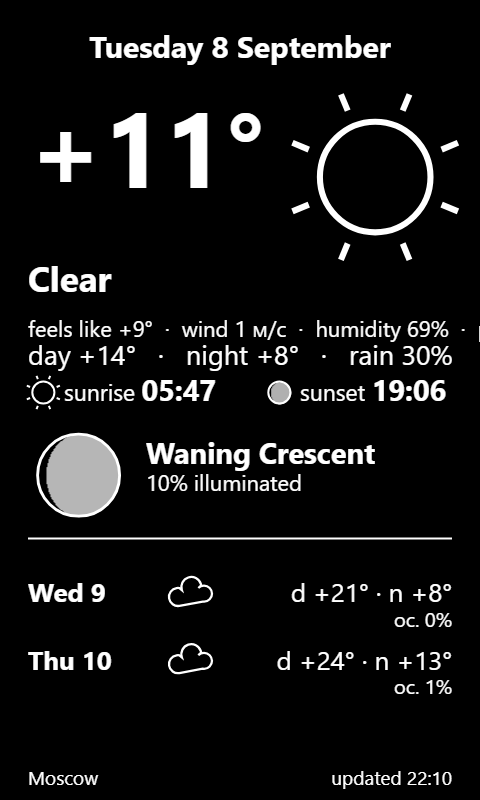
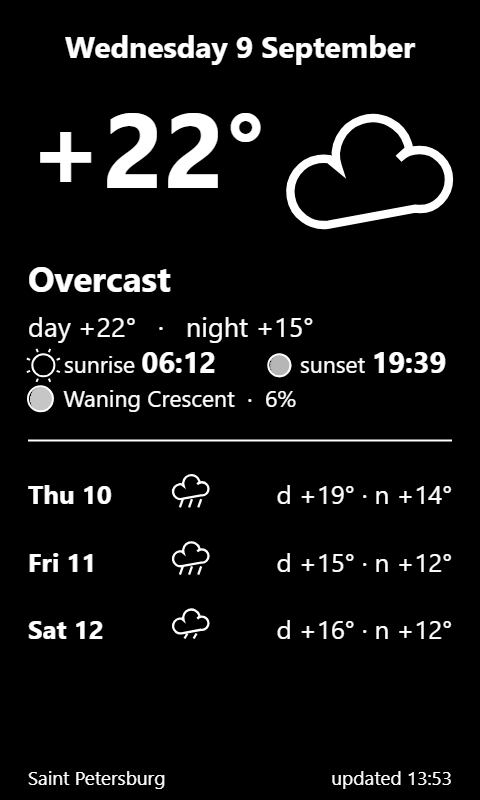
cleanup: drop dead CSS/i18n leftovers, restore progress bar styles; fix [0] weather error and loadWeather race; install: reachability probe + relay ERR surfaced; serve.py: origin guard for /relay and /save; fresh RU/EN screenshots; dev guide synced

diff --git a/index.html b/index.html
@@ -10,7 +10,7 @@
   :root {
     --bg:#f5f3ef; --panel:#ffffff; --line:#e3dfd7; --fg:#22211e; --dim:#8a857c; --acc:#2f6f3e;
     --btnText:#ffffff; --inputBg:#fbfaf8; --codeBg:#f0ede6; --warnBg:#fdf3d8; --warnBorder:#ecd9a0; --warnText:#7a5200;
-    --badgeBg:#181b20;
+    --badgeBg:#181b20; --acc2:#7cc98b;
   }
   @media (prefers-color-scheme: dark) {
     :root {
@@ -25,22 +25,10 @@
   .navIn { max-width:1080px; margin:0 auto; text-align:center; }
   .brand { display:inline-block; color:#fff; text-decoration:none; font-size:22px; font-weight:800; letter-spacing:.5px; }
   .brand span { color:var(--acc2); }
-  nav.menu { margin-top:10px; display:flex; justify-content:center; align-items:center; gap:6px 18px; flex-wrap:wrap; }
-  nav.menu a { color:#cfd4da; text-decoration:none; font-size:14px; font-weight:600; padding:4px 2px; border-bottom:2px solid transparent; }
-  nav.menu a:hover { color:#fff; border-bottom-color:var(--acc2); }
   .navBadges { margin-top:10px; display:flex; justify-content:center; align-items:center; gap:8px; flex-wrap:wrap; }
   .navBadges .badge { background:#0d0f12; border:1px solid #2a2f36; }
   .navBadges .badge.lang.active { background:var(--acc); color:#12210f; border-color:var(--acc); }
-  .navBadges .badge.donate { color:var(--gold); border-color:#4a3f22; }
   .navBadges .badge .cnt { color:#f0c14b; letter-spacing:0; }
-  #about { max-width:760px; margin:0 auto; padding:40px 20px 10px; text-align:center; }
-  #about h2 { font-size:26px; margin:0 0 12px; }
-  #about p { color:var(--dim); font-size:15.5px; margin:0 0 10px; }
-  header.site { padding:14px 26px 12px; border-bottom:1px solid var(--line); background:var(--panel); }
-  .hdrRow { max-width:1180px; margin:0 auto; display:flex; align-items:center; gap:14px; flex-wrap:wrap; }
-  header.site h1 { margin:0; font-size:19px; font-weight:700; letter-spacing:.2px; }
-  header.site p { margin:6px 0 10px; color:var(--dim); font-size:13.5px; max-width:1180px; }
-  .hdrLinks { margin-left:auto; display:flex; align-items:center; gap:8px; flex-wrap:wrap; }
   .badge { display:inline-flex; align-items:center; gap:5px; background:var(--badgeBg); color:#fff; border:none; border-radius:4px; padding:7px 11px; font-size:11px; font-weight:700; letter-spacing:.8px; text-transform:uppercase; text-decoration:none; cursor:pointer; font-family:inherit; line-height:1; }
   .badge:hover { filter:brightness(1.3); }
   .badge.lang.active { background:var(--acc); color:var(--btnText); }
@@ -54,11 +42,6 @@
   .accItem:hover { background:#22262d; }
   .accItem small { color:var(--dim); display:block; font-size:11px; font-weight:400; }
   .badge.donate { color:#f0c14b; border:2px solid #4a3f22; }
-  .hh { font-size:1.15em; }
-  .home { color:var(--fg); text-decoration:none; font-weight:600; font-size:13.5px; background:var(--inputBg); border:1px solid var(--line); border-radius:8px; padding:7px 12px; }
-  .home:hover { background:var(--codeBg); }
-  .iconLink { display:inline-flex; align-items:center; justify-content:center; width:30px; height:25px; border-radius:4px; color:#ffffff; text-decoration:none; background:var(--badgeBg); }
-  .iconLink:hover { filter:brightness(1.3); }
   main { display:flex; gap:26px; padding:24px; align-items:flex-start; flex-wrap:wrap; max-width:1180px; margin:0 auto; }
   #controls { width:340px; background:var(--panel); border:1px solid var(--line); border-radius:12px; padding:20px; }
   .group { margin-bottom:20px; }
@@ -92,6 +75,10 @@
   .status:empty { display:none; }
   .status.ok { color:var(--acc); font-weight:600; }
   .status.err { color:#e07a5f; }
+  .bar { display:none; height:8px; margin:9px 0 7px; background:var(--inputBg); border:1px solid var(--line); border-radius:5px; overflow:hidden; }
+  .bar i { display:block; height:100%; width:0; background:var(--acc); transition:width .2s ease; }
+  .bar.ind i { width:30%; animation:xmsIndet 1.2s linear infinite; }
+  @keyframes xmsIndet { from { margin-left:-30%; } to { margin-left:100%; } }
   #cryptoModal { display:none; position:fixed; inset:0; background:rgba(0,0,0,.55); z-index:50; align-items:center; justify-content:center; }
   #cryptoModal.open { display:flex; }
   .cmBox { background:var(--panel); border:1px solid var(--line); border-radius:14px; padding:22px; width:min(560px, 92vw); position:relative; }
@@ -102,11 +89,6 @@
   .cmAddr { flex:1; font-family:Consolas, monospace; font-size:11.5px; background:var(--inputBg); border:1px solid var(--line); border-radius:6px; padding:6px 8px; word-break:break-all; min-width:200px; }
   .cmBtn { background:var(--inputBg); color:var(--fg); border:1px solid var(--line); border-radius:6px; padding:6px 10px; font-size:12px; font-weight:600; text-decoration:none; cursor:pointer; }
   #cmClose { position:absolute; top:8px; right:12px; background:none; border:none; font-size:24px; color:var(--dim); }
-  details { margin-top:12px; font-size:13px; color:var(--dim); }
-  details summary { cursor:pointer; color:var(--fg); font-weight:600; }
-  details ol, details ul { margin:8px 0 0; padding-left:20px; }
-  details li { margin-bottom:5px; }
-  code { background:var(--codeBg); padding:1px 5px; border-radius:4px; font-size:12px; }
   @media (max-width: 900px) {
     main { flex-direction: column; align-items: center; }
     #controls { width:100%; max-width:560px; }
@@ -269,17 +251,10 @@ ru: {
   refresh: "Обновить погоду",
   install: "Обновить и установить на ридер",
   download: "Скачать sleep.bmp",
-  reader: "Ридер",
   instBlock: "Быстрая установка",
   readerHint: "Введите IP-адрес, который отображается у вас в режиме передачи файлов на вашей читалке.",
   httpsNote: 'Эта страница загружается по протоколу HTTPS — браузер блокирует запросы от неё к ридеру в вашей домашней сети. Генератор и загрузка BMP работают полностью. Для установки в один клик <a href="index.html" download="xteink-meteo-sleep.html">скачайте этот файл</a> и откройте его на своём компьютере.',
-  ideaT: "💡 Идея проекта",
   ideaP: "Экран блокировки ридера — это e-ink: он не тратит батарею, просто показывая картинку. Пусть вместо бесполезной заставки там будет полезный инструмент: сводка погоды, закат, фаза Луны. Синхронизировался утром — и весь день (даже офлайн, на природе) перед глазами живая сводка, а не мёртвый пейзаж.",
-  roadT: "🛣 Roadmap",
-  rmDone: "✅ Уже работает",
-  rd: "Карточка погоды (сейчас, днём/ночью, прогноз 2–5 дней) · восход/закат · фаза Луны · 6 языков · светлая/тёмная тема · установка на ридер в 1 клик (локальная версия) · донаты",
-  rmNext: "🏗 В планах",
-  rn: "Вероятность осадков · ветер · ощущаемая температура · UV-индекс · качество воздуха · офлайн-режим (дневная температура как главная) · своя строка текста на карточке · автообновление через форк прошивки",
   rmTested: "⚠ Протестировано только на Xteink X4 + inkMOD 1.1.7. Другие устройства и прошивки не проверялись — отчёты приветствуются!",
   stSearching: "Ищем город…", stFound: "Найдено: {n}. Выбери из списка.", stNotFound: "Город не найден", stSearchErr: "Ошибка сети при поиске города",
   stLoading: "Грузим погоду для {city}…", stReady: "Готово: {w}×{h}. Можно скачивать BMP.",
@@ -287,18 +262,16 @@ ru: {
   stSendErr: "Ридер не отвечает. Проверь: он в режиме File Transfer, ноут в его сети, адрес верный.",
   stApplying: "Картинка загружена. Применяю режим «Своя картинка»…",
   stDone: "Готово: sleep.bmp на ридере, режим «Своя картинка» выставлен. Заблокируй ридер — увидишь карточку.",
-  stApplyFail: "Картинка загружена, но режим применить не удалось — выбери «Своя картинка» на ридере вручную.",
-  stHttps: "Страница по HTTPS — браузер не пустит запросы к ридеру в домашней сети. Скачай файл (жёлтая плашка выше) и открой его на компе.",
+
   stNoAddr: "Впишите адрес ридера — тот, что он показывает в режиме передачи файлов.",
   stNoWeather: "Сначала загрузи погоду — нажми «Обновить погоду».",
   noData: "Нет данных о погоде", dayLbl: "днём", nightLbl: "ночью", sunrise: "восход", sunset: "закат",
-  illum: "освещено {v}%", updated: "обновлено", dS: "д", nS: "н", donate: "Поддержать",
-  mGen: "Конструктор", mAbout: "О проекте", mInst: "Установка", bnPlace: "Куда класть файл — зависит от прошивки: в inkMOD это папка Sleep.", ideaNext: "В планах — сделать так, чтобы карточка оставалась полезной несколько дней без синхронизации.",
-  home: "На главную",
+  updated: "обновлено", dS: "д", nS: "н", donate: "Поддержать",
+  ideaNext: "В планах — сделать так, чтобы карточка оставалась полезной несколько дней без синхронизации.",
   footData: "Погода и геокодинг — <a href=\"https://open-meteo.com\" target=\"_blank\" rel=\"noopener\">Open-Meteo.com</a> · фаза Луны рассчитывается прямо в браузере · карточка живёт офлайн и обновляется с новой загрузкой sleep.bmp",
   madeFor: "сделал для сообщества, с любовью",
   disclaimer: "Проект не аффилирован с Xteink, inkMOD и CrossPoint. Погода — Open-Meteo (некоммерческое использование).", langRu: "Русский", langEn: "Английский",
-  bnFw: "Подходит к любой прошивке ридера — это обычный BMP-файл", navIdea2: "Идея", navRoad2: "Roadmap",
+  bnFw: "Подходит к любой прошивке ридера — это обычный BMP-файл",
   crypto: "Крипта",
   okBtn: "Понятно", cmTitle: "Поддержать криптой", copied: "Скопировано ✓",
   wmo: {0:"Ясно",1:"Преимущ. ясно",2:"Перем. облачность",3:"Пасмурно",45:"Туман",56:"Морось",61:"Небольшой дождь",63:"Дождь",65:"Сильный дождь",66:"Ледяной дождь",71:"Небольшой снег",73:"Снег",75:"Сильный снег",77:"Снежные зёрна",80:"Ливень",85:"Снегопад",95:"Гроза",96:"Гроза с градом"},
@@ -314,17 +287,10 @@ en: {
   refresh: "Refresh weather",
   install: "Update & install to reader",
   download: "Download sleep.bmp",
-  reader: "Reader",
   instBlock: "Quick install",
   readerHint: "Enter the IP address shown on your e-reader in File Transfer mode.",
   httpsNote: 'This page is served over HTTPS — the browser blocks its requests to the reader on your home network. The generator and BMP download work fully. For one-click install, <a href="index.html" download="xteink-meteo-sleep.html">download this file</a> and open it on your computer.',
-  ideaT: "💡 Project idea",
   ideaP: "An e-reader lock screen is e-ink: showing a picture costs zero battery. So instead of a useless wallpaper, let it be a useful tool: weather summary, sunset time, moon phase. Sync in the morning — and all day (even offline, out in nature) you have a live briefing instead of a dead landscape.",
-  roadT: "🛣 Roadmap",
-  rmDone: "✅ Already working",
-  rd: "Weather card (current, day/night, 2–5 day forecast) · sunrise/sunset · moon phase · 6 interface languages · light/dark theme · one-click install to reader (local version) · donations",
-  rmNext: "🏗 On the roadmap",
-  rn: "Precipitation probability · wind · feels-like temperature · UV index · air quality · offline mode (daily temp as the headline) · custom text line on the card · scheduled auto-refresh via a firmware fork",
   rmTested: "⚠ Tested only on Xteink X4 + inkMOD 1.1.7. Other devices and firmware are untested — field reports welcome!",
   stSearching: "Searching…", stFound: "{n} found — pick one", stNotFound: "City not found", stSearchErr: "Network error while searching",
   stLoading: "Loading weather for {city}…", stReady: "Done: {w}×{h}. You can download the BMP.",
@@ -332,20 +298,17 @@ en: {
   stSendErr: "Reader is not responding. Check: it\u2019s in File Transfer mode, laptop on the same network, address correct.",
   stApplying: "Image uploaded. Applying the custom sleep screen…",
   stDone: "Done: sleep.bmp is on the reader, sleep screen set to Custom. Lock the reader to see the card.",
-  stApplyFail: "Image uploaded, but couldn\u2019t set the mode — pick “Custom image” on the reader manually.",
-  stHttps: "Page is on HTTPS — the browser won\u2019t let it reach the reader on your network. Download the file (yellow note above) and open it locally.",
+
   stNoAddr: "Enter the reader address — the one it shows in File Transfer mode.",
   stNoWeather: "Load the weather first — press “Refresh weather”.",
   noData: "No weather data", dayLbl: "day", nightLbl: "night", sunrise: "sunrise", sunset: "sunset",
-  illum: "{v}% illuminated", updated: "updated", dS: "d", nS: "n", donate: "Donate",
-  mGen: "Generator", mAbout: "About", mInst: "Install", bnPlace: "Where to put the file depends on the firmware: on inkMOD it is the Sleep folder.", ideaNext: "Planned: make the card stay useful for several days without a sync.",
-  home: "Home",
+  updated: "updated", dS: "d", nS: "n", donate: "Donate",
+  ideaNext: "Planned: make the card stay useful for several days without a sync.",
   footData: "Weather & geocoding by <a href=\"https://open-meteo.com\" target=\"_blank\" rel=\"noopener\">Open-Meteo.com</a> · moon phase is computed right in your browser · the card lives offline and refreshes with every sleep.bmp upload",
   madeFor: "made for the community with",
   disclaimer: "Not affiliated with Xteink, inkMOD or CrossPoint. Weather data by Open-Meteo (non-commercial use).", langRu: "Russian", langEn: "English",
-  bnFw: "Works with any reader firmware — it is just a BMP file", navIdea2: "Idea", navRoad2: "Roadmap",
+  bnFw: "Works with any reader firmware — it is just a BMP file",
   crypto: "Crypto",
-  okBtn: "Đã hiểu",
   okBtn: "Got it", cmTitle: "Donate in crypto", copied: "Copied ✓",
   wmo: {0:"Clear",1:"Mainly clear",2:"Partly cloudy",3:"Overcast",45:"Fog",56:"Drizzle",61:"Light rain",63:"Rain",65:"Heavy rain",66:"Freezing rain",71:"Light snow",73:"Snow",75:"Heavy snow",77:"Snow grains",80:"Rain shower",85:"Snowfall",95:"Thunderstorm",96:"Thunderstorm with hail"},
   moon: ["New Moon","Waxing Crescent","First Quarter","Waxing Gibbous","Full Moon","Waning Gibbous","Last Quarter","Waning Crescent"]
@@ -716,7 +679,7 @@ async function searchCity(){
 }
 
 async function loadWeather(){
-  window._lw = (window._lw || 0) + 1;
+  const my = (window._lw = (window._lw || 0) + 1); // устаревший ответ игнорируем
   if (!place) return;
   setStatusG(tf("stLoading", { city: place.name }));
   const n = 1 + days;
@@ -727,17 +690,20 @@ async function loadWeather(){
     try {
       const r = await fetch(url);
       if (!r.ok) throw new Error(r.status);
-      weather = await r.json();
+      const j = await r.json();
+      if (my !== window._lw) return;
+      weather = j;
       drawCard();
-    $("download").disabled = false;
-    $("install").disabled = location.protocol === "https:";
+      $("download").disabled = false;
+      $("install").disabled = location.protocol === "https:";
       setStatusG(tf("stReady", { w: canvas.width, h: canvas.height }), "ok");
       return;
     } catch(e){
+      if (my !== window._lw) return;
       if (attempt === 0){ await new Promise(res => setTimeout(res, 1500)); setStatusG("…повтор"); }
     }
   }
-  setStatusG(t("stWeatherFail") + " [" + (window._lwErr || 0) + "]", "err");
+  setStatusG(t("stWeatherFail"), "err");
 }
 
 // ---------- интерфейс ----------
@@ -844,7 +810,11 @@ function relaySend(blob, addr, folder, filename, onPct){
     const url = "/relay?addr=" + encodeURIComponent(addr + "/upload?path=" + encodeURIComponent(folder)) + "&name=" + encodeURIComponent(filename);
     xhr.open("POST", url);
     if (xhr.upload) xhr.upload.onprogress = e => { if (e.lengthComputable && onPct) onPct(e.loaded / e.total); };
-    xhr.onload = () => resolve();
+    xhr.onload = () => {
+      const resp = xhr.responseText || "";
+      if (resp.indexOf("ERR") === 0) reject(new Error(resp));
+      else resolve();
+    };
     xhr.onerror = () => reject(new Error("relay"));
     xhr.send(blob);
   });
@@ -870,6 +840,10 @@ async function installOnReader(){
   if (!weather){ setStatus(t("stNoWeather"), "err"); return; }
   const addr = readerAddress();
   if (!addr){ setStatus(t("stNoAddr"), "err"); return; }
+  if (!RELAY){
+    try { await fetch(addr, { mode: "no-cors" }); } // достижимость: сеть не путаем с CORS
+    catch(e){ setStatus(t("stSendErr"), "err"); return; }
+  }
   let folder = "/Sleep";
   setStatus(tf("stLoading", { city: addr }));
   drawCard();

diff --git a/serve.py b/serve.py
@@ -2,6 +2,12 @@ import http.server, os, sys, urllib.request, uuid
 role = sys.argv[1] if len(sys.argv) > 1 else "site"
 os.chdir(os.path.dirname(os.path.abspath(__file__)))
 
+# /relay и /save — не публичный API: отвечаем только своему origin и file:// (Origin "null").
+# Чужой Origin = чужой сайт дёргает локальный сервер как прокси в домашнюю сеть.
+ORIGIN_OK = {"http://localhost:8765", "http://127.0.0.1:8765", "null", ""}
+def origin_ok(handler):
+    return handler.headers.get("Origin", "") in ORIGIN_OK
+
 class NoCache:
     def end_headers(self):
         self.send_header("Cache-Control", "no-store, must-revalidate")
@@ -18,6 +24,8 @@ class Site(NoCache, http.server.SimpleHTTPRequestHandler):
         super().do_GET()
     def do_POST(self):
         if self.path.startswith("/relay"):
+            if not origin_ok(self):
+                self.send_error(403); return
             from urllib.parse import urlparse, parse_qs
             q = parse_qs(urlparse(self.path).query)
             addr = q.get("addr", [""])[0]
@@ -40,6 +48,8 @@ class Site(NoCache, http.server.SimpleHTTPRequestHandler):
             return
         if self.path != "/save":
             self.send_error(404); return
+        if not origin_ok(self):
+            self.send_error(403); return
         data = self.rfile.read(int(self.headers.get("Content-Length", 0)))
         with open("sleep-test.bmp", "wb") as f:
             f.write(data)

diff --git a/DEVELOPMENT.md b/DEVELOPMENT.md
@@ -18,7 +18,7 @@ This document is the code map — it tells you where things live so you don't ha
 | `<style>` | All CSS. Colors **only** via CSS variables; dark theme = `@media (prefers-color-scheme: dark)` overriding the variables (soft dark, not black) |
 | `#compatPop` | Top popup (cookie-notice style): firmware compatibility + tested-on note; dismissible via «Понятно» button, stored in `lsx.compatSeen` |
 | header (`.nav`) | Centered brand; right side: lang badges (Русский/English), ♥ Tribute badge, ₮ Crypto badge, GitHub badge |
-| `#controls` | Generator groups: City → Device (X4/X3) → Forecast days → **Card theme** (single dark-card toggle) → buttons (Install to reader / Download sleep.bmp / Refresh) → Reader address (single field, what the reader shows in File Transfer mode; stored in `lsx.reader`) + always-visible `localOnly` hint + `#httpsNote` (shown on HTTPS, links to index.html & meteo-server.bat) |
+| `#controls` | Generator groups: City → Device (X4/X3) → Forecast days → **Card theme** (single dark-card toggle) → buttons (Install to reader / Download sleep.bmp / Refresh) → Reader address (single field; stored in `lsx.reader`) + hint («Enter the IP address shown on your e-reader in File Transfer mode») + `#httpsNote` (shown on HTTPS, links to index.html & meteo-server.bat) |
 | `#preview` | Canvas `#card` — live card preview |
 | `.foot` | Footer: data credits (Open-Meteo, local moon math), credits line, no-affiliation disclaimer |
 | `<script>` | Everything: `I18N` (ru/en), drawing, BMP writer, network, reader upload, crypto modal, init |
@@ -36,7 +36,7 @@ This document is the code map — it tells you where things live so you don't ha
 | Crypto addresses | `CRYPTO` array |
 | Reader address handling | `readerAddress()` (single `#readerAddr` field, prepends `http://`, stores in `lsx.reader`) |
 | Compat popup texts | `bnFw`, `rmTested`, `okBtn` keys; visibility stored in `lsx.compatSeen` |
-| Install endpoints | `installOnReader()` → `sendOne()` → `relaySend` (local relay, progress) or `directSend` (blind cross-origin POST); then `/api/settings` `{"sleepScreen":3}` |
+| Install endpoints | `installOnReader()`: the direct route first does a one-time no-cors reachability probe, then `sendOne()` → `relaySend` (local relay, progress, relay `ERR…` body = failure) or `directSend` (blind cross-origin POST, response unreadable); then `/api/settings` `{"sleepScreen":3}` |
 | Card theme | `theme` var (`"light"`/`"dark"`) + `#themeSeg` toggle; stored in `lsx.invert` (legacy key) |
 
 ## Languages
@@ -47,7 +47,7 @@ This document is the code map — it tells you where things live so you don't ha
 
 - Forecast, sunrise/sunset, precipitation probability, wind: `api.open-meteo.com/v1/forecast`
 - City search: `geocoding-api.open-meteo.com/v1/search` — **flaky, sometimes down** → fallback: Nominatim `search`
-- Localized city name on language switch: Nominatim `reverse` (`zoom=10`, `accept-language`; airports `AIR*` excluded, 0.3° threshold)
+- Localized city name on language switch: Nominatim `reverse` (`zoom=10`, `accept-language`)
 - WMO codes → `wmoKey()` (order matters: snow 71–77 **before** shower `<= 82`)
 
 ## Reader upload protocol (inkMOD 1.1.x / CrossPoint)
@@ -61,18 +61,18 @@ This document is the code map — it tells you where things live so you don't ha
 ## Local development
 
 ```bash
-python serve.py site    # http://localhost:8765 — site + /relay-check + /relay (upload relay, multipart built server-side)
+python serve.py site    # http://localhost:8765 — site + /relay-check + /relay (upload relay, multipart built server-side; /relay and /save only accept Origin: localhost or file:// — otherwise any site could use the server as a LAN proxy)
 python serve.py reader  # fake inkMOD reader on http://127.0.0.1:8766 (writes uploads to upload-test.bin)
 ```
 
 - `serve.py` sends `Cache-Control: no-store` (stale browser cache once shipped a broken build — do not remove).
-- `Метео Сервер.bat` (desktop) starts the site server and opens the page; the relay makes the one-click buttons work 100% offline-of-CORS.
+- `meteo-server.bat` (repo) starts the site server and opens the page; the relay makes the one-click buttons work 100% offline-of-CORS.
 
 ## Release flow
 
 1. Edit `index.html` (+ this file if structure changed).
 2. Test on `localhost:8765`: RU/EN search of a cyrillic query, extreme temps (+39/−12) for icon overlap, BMP size exactly `480*3*800 + 54 = 1152054`, install against the fake reader, both themes, footer in both languages.
-3. Push: `python gh_push.py <repoPath> <localFile> ["message"]` (GitHub contents API; `.gh-token` = fine-grained PAT, Contents RW on this repo, expires ~monthly).
+3. Commit and push to `main` with git.
 4. GitHub Pages redeploys automatically from `main` (~1 min).
 
 ## Known gotchas
@@ -81,3 +81,4 @@ python serve.py reader  # fake inkMOD reader on http://127.0.0.1:8766 (writes up
 2. HTML blocks must exist before the `<script>` runs; `let y` in `drawCard` must be declared (strict mode + gating blocks).
 3. Python `\uD83D`-style surrogate escapes in patch scripts crash utf-8 writes and truncate files to 0 bytes — use `chr(0x1F4CC)`/`fromCodePoint`, guard with `html.encode('utf-8')` before writing.
 4. History note: `f7611e6` deleted `sendOne`/`relaySend`/`directSend` but kept the call — the install button died silently; restored in `0d673cb`. Don't remove helpers without grepping callers.
+5. Same lesson on the CSS side: that cleanup also dropped the `.bar`/`#pfill` styles (progress bar silently invisible) and left rules for removed blocks (`nav.menu`, `#about`, `header.site`, `.home`, `.iconLink`, `details`, `code`) plus the undefined `--acc2`/`--gold` references. When removing a feature, grep the HTML for its classes/ids and the CSS for the vars those rules used.
